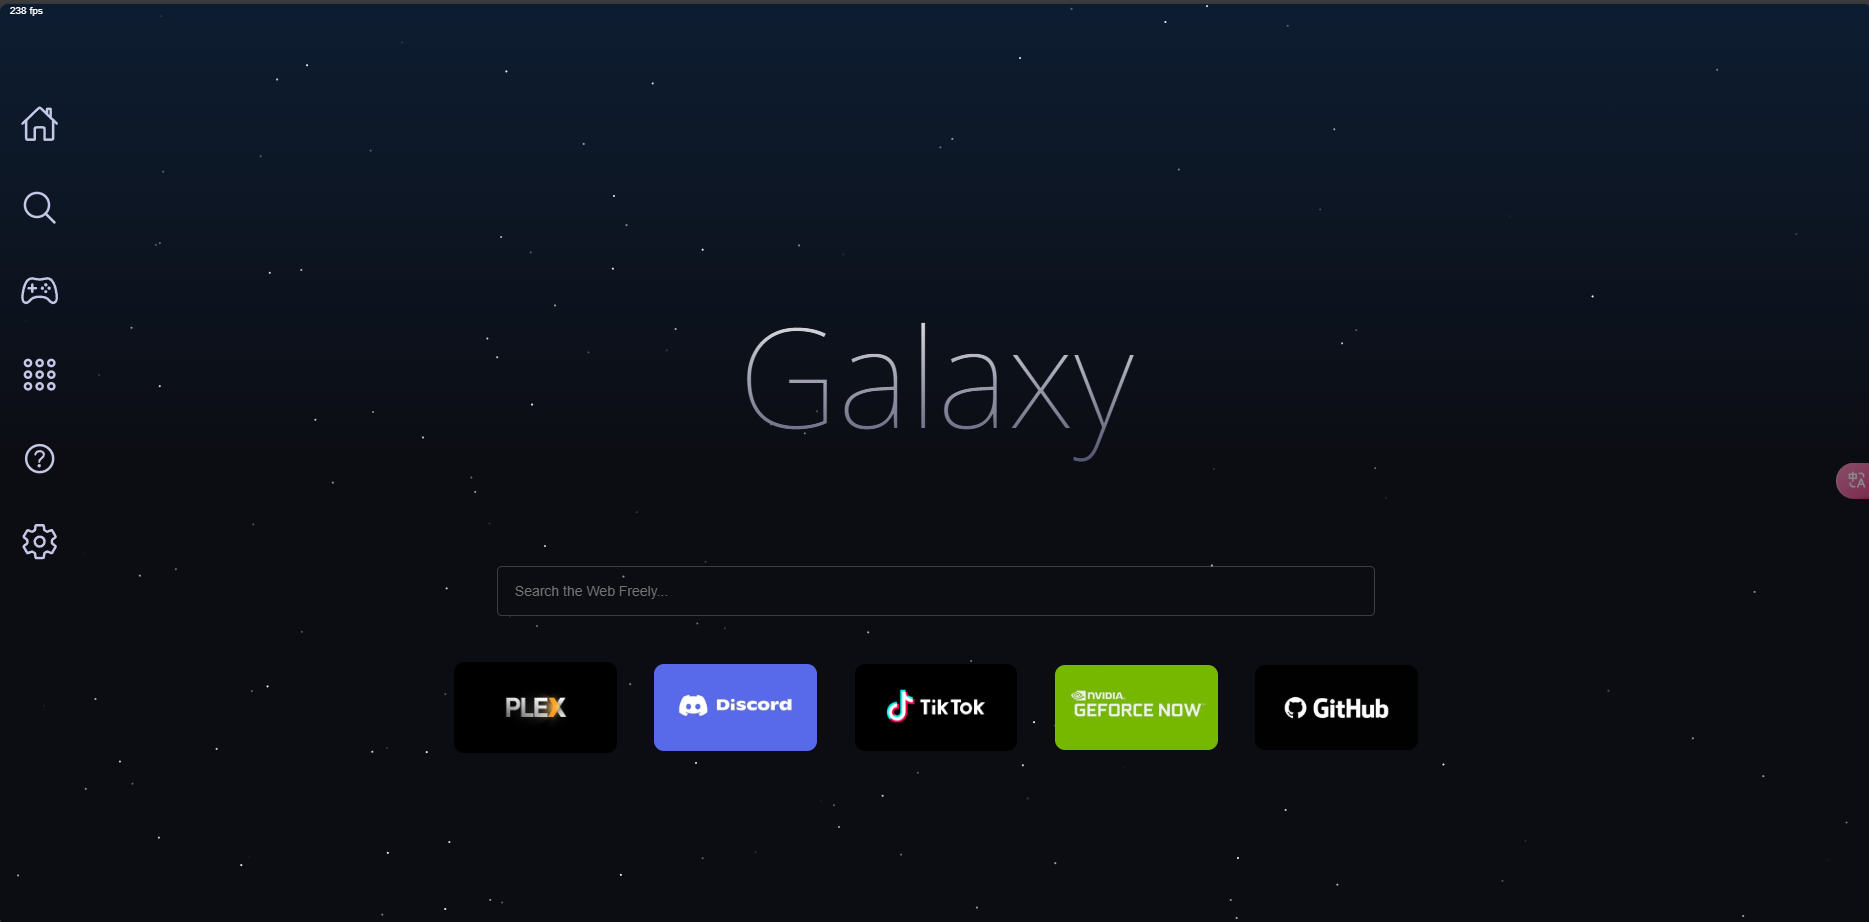
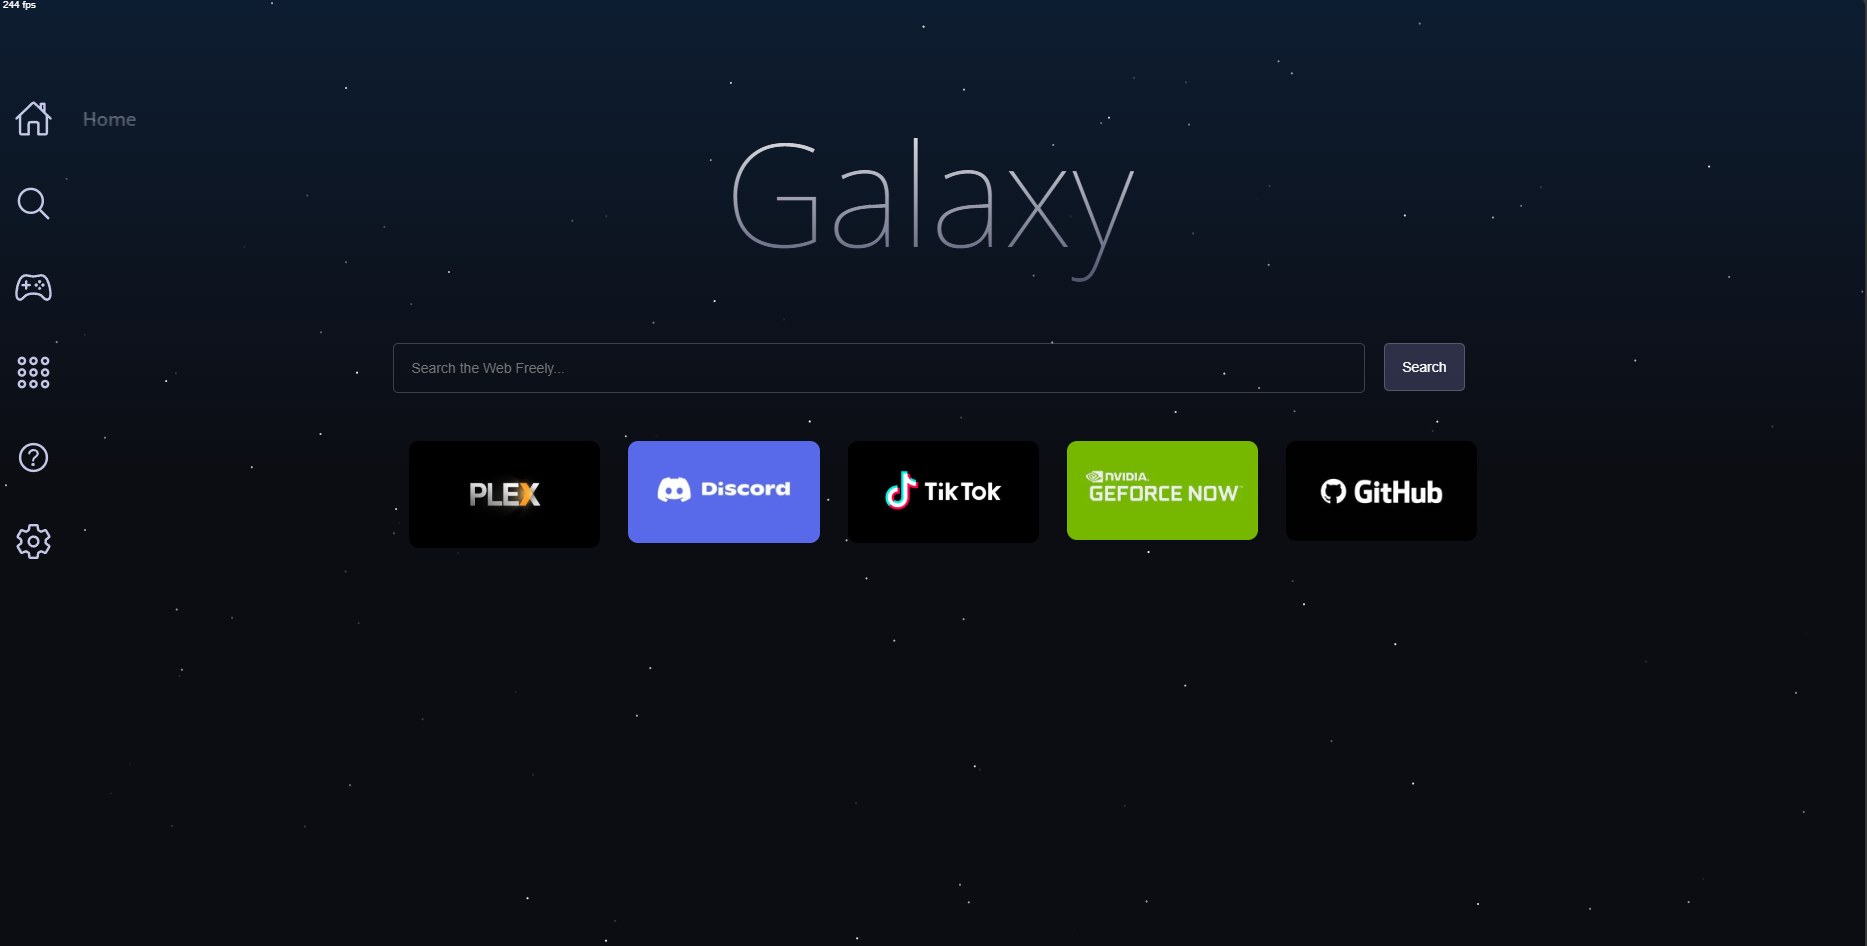
css update

diff --git a/public/assets/styles/main.css b/public/assets/styles/main.css
@@ -14,10 +14,10 @@ h1 {
   -webkit-background-clip: text;
   -webkit-text-fill-color: transparent;
   position: absolute;
-  font-size: 8vw;
+  font-size: 10vw;
   font-family: "Noto Sans", sans-serif;
   font-weight: 100;
-  left: 40vw;
+  left: 35vw;
 }
 img {
   opacity: 0;
